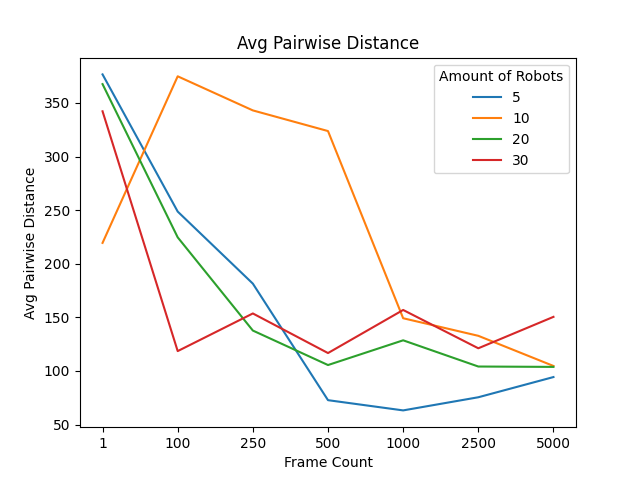
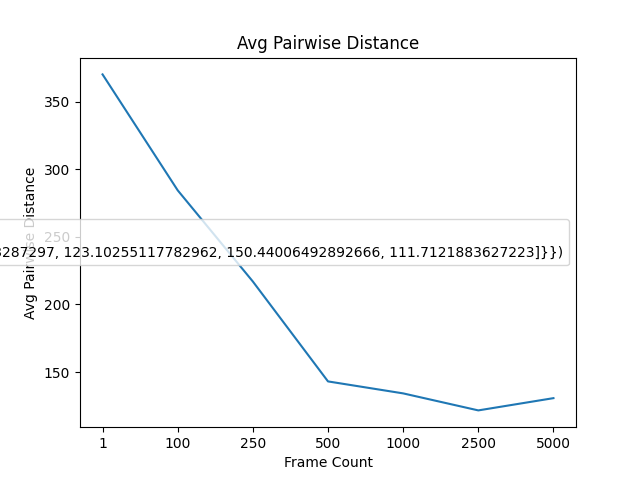
more graphs

diff --git a/frame_diagram.py b/frame_diagram.py
@@ -1,10 +1,17 @@
 import os
-import yaml
+from collections import defaultdict
+
 import matplotlib.pyplot as plt
+import yaml
+import numpy as np
+from tqdm import trange
+
+mode = "disperse"
 
 files = [f for f in os.listdir(
     "metrics") if os.path.isfile(os.path.join("metrics", f))]
 yaml_files = [f for f in files if f.endswith(".yaml")]
+yaml_files = [f for f in yaml_files if mode in f]
 
 current_mode = None
 current_exp = -1
@@ -12,26 +19,41 @@ first = True
 
 yaml_files.sort()
 
+avg = 0
+robots = defaultdict(dict)
+
 for file in yaml_files:
     numbers = yaml.safe_load(open(f'metrics/{file}', "r"))
     params = file.replace(".", "_").split("_")
     # ['flock', '08', '05', 'overall', 'avg', 'yaml']
     mode = params[0]
     exp = int(params[1])
-    robots = int(params[2])
+    key = int(params[2])
+    for k, v in numbers.items():
+        if k not in robots[key].keys():
+            robots[key][k] = [v]
+        else:
+            robots[key][k] += [v]
 
-    if first is not True and (current_mode != mode or current_exp != exp):
-        plt.title("Avg Pairwise Distance")
-        plt.xlabel("Frame Count")
-        plt.ylabel("Avg Pairwise Distance")
-        plt.legend(title="Amount of Robots")
-        plt.savefig(f"./metrics/{mode}_{exp}_graph.png")
-        plt.close()
-        print("Save", current_mode, current_exp)
-        current_mode = mode
-        current_exp = exp
+overall_avg = defaultdict(dict)
 
-    even = range(len(numbers.keys()))
-    plt.plot(even, numbers.values(), label=robots)
-    plt.xticks(even, numbers.keys())
-    first = False
+for rkey, rval in robots.items():
+    for fkey, fval in rval.items():
+        overall_avg[rkey][fkey] = np.average(fval)
+
+
+pbar = trange(len(overall_avg.keys()))
+
+for k, v in overall_avg.items():
+    pbar.set_description(f"Working on {k}")
+    even = range(len(overall_avg[k].keys()))
+    plt.plot(even, overall_avg[k].values(), label=k)
+    plt.xticks(even, overall_avg[k].keys())
+    pbar.update()
+
+plt.title("Avg Pairwise Distance")
+plt.xlabel("Frame Count")
+plt.ylabel("Avg Pairwise Distance")
+plt.legend(title="Amount of Robots")
+plt.savefig(f"./metrics/{mode}_graph.png")
+plt.close()
